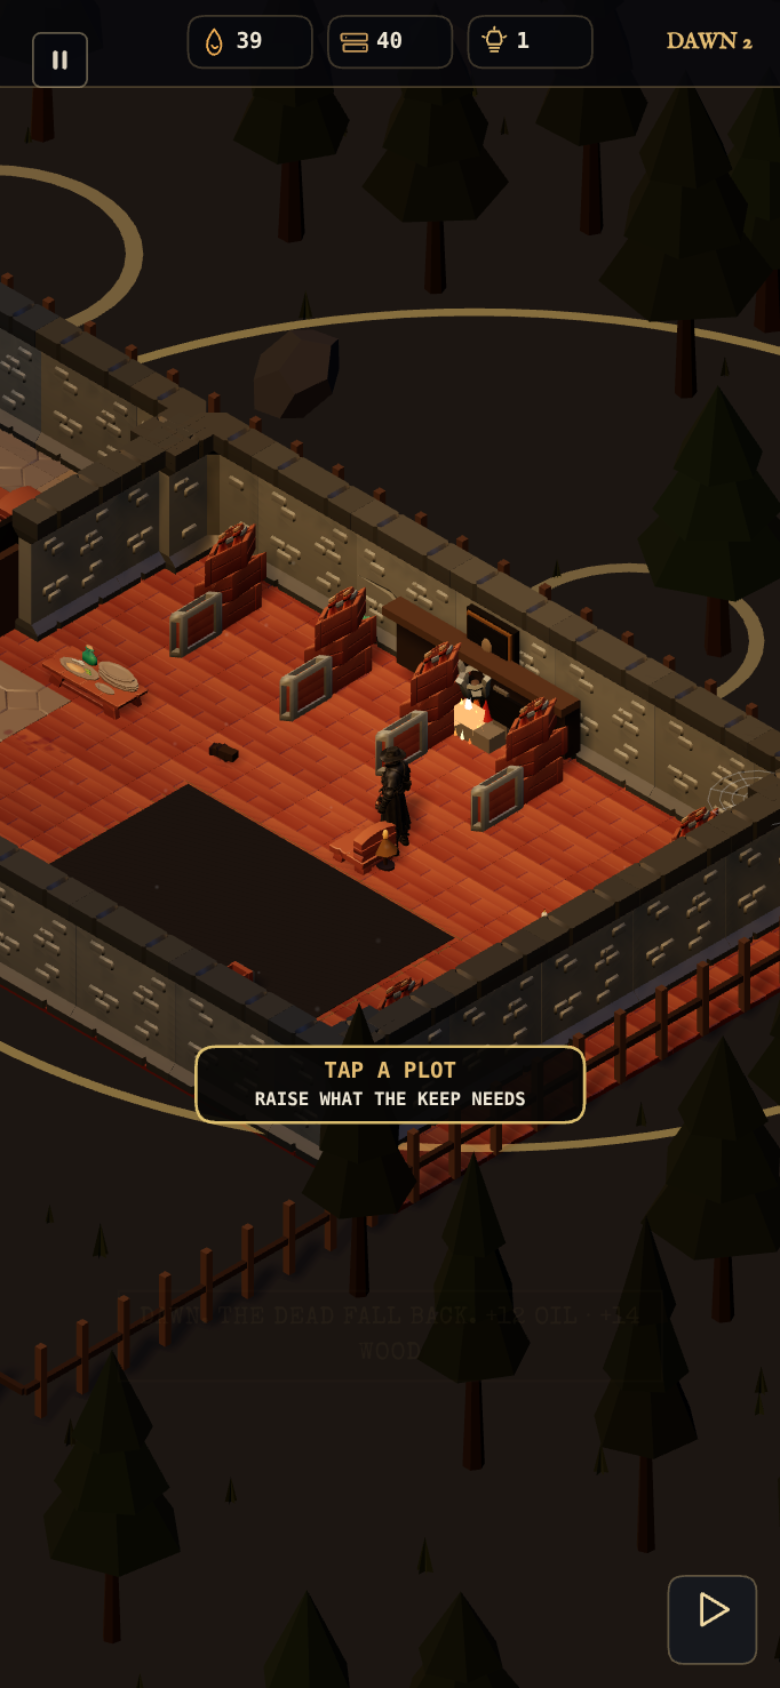
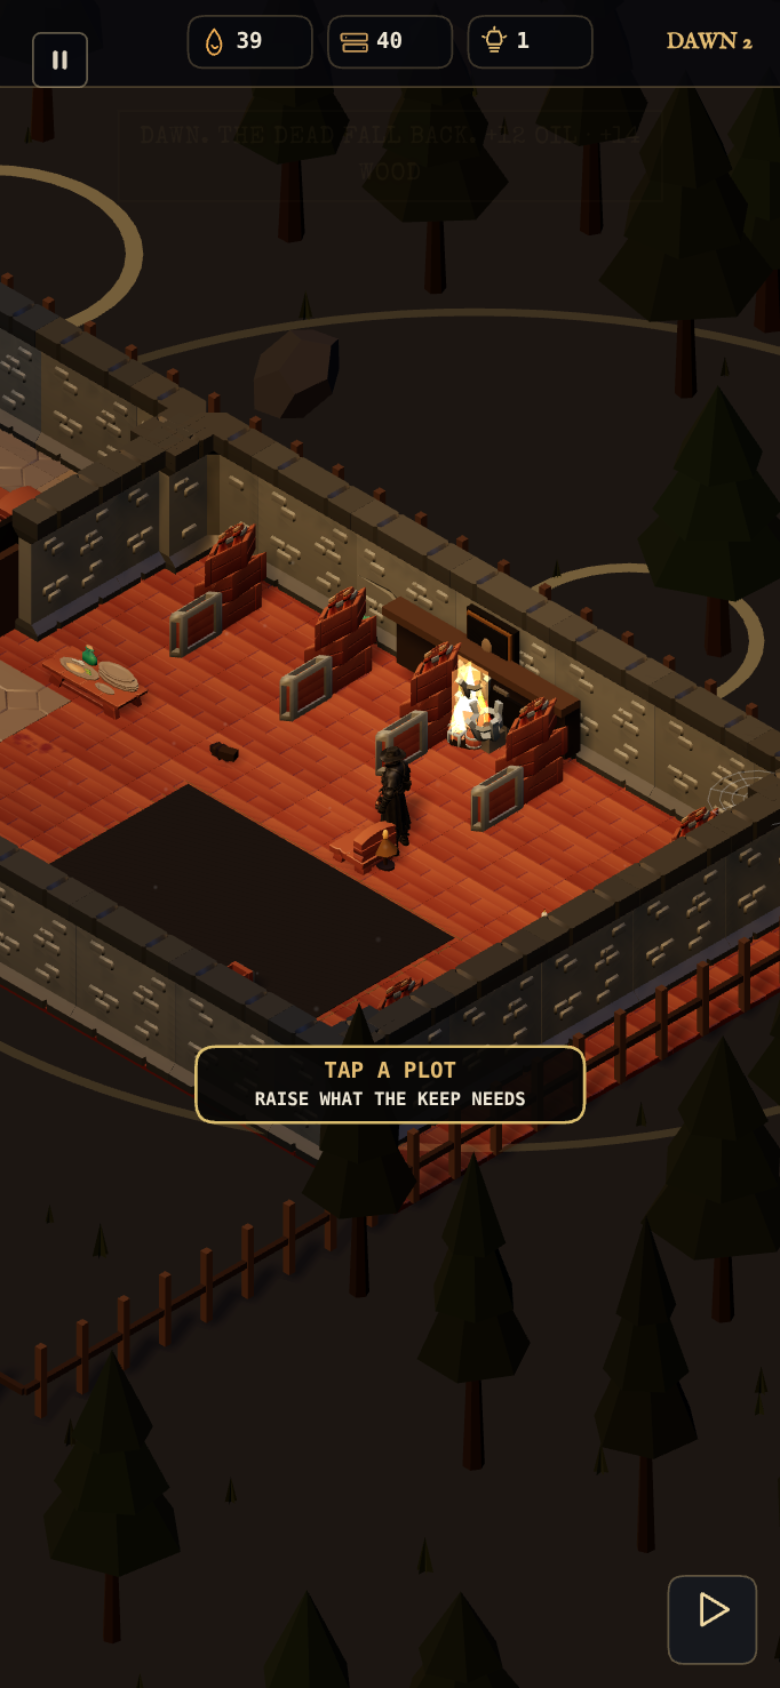
Make the hearth a real fire that goes out.
The keep fire is a log pit with torch/barrel kit pieces, not a gold ring.
Oil lights the flames; empty oil leaves embers and smoke. Dawn copy sits
under the dock, day camera looks at the yard, and wing jobs are rooms.

diff --git a/src/game/world3d.js b/src/game/world3d.js
@@ -6,7 +6,7 @@
  */
 import * as THREE from '../vendor/three/three.module.min.js';
 import { ISO_CAMERA, clamp, visualAngle } from '../core/util.js';
-import { EnvKit, PX_PER_METRE, VALEN_METRES, HUNTER_SCALE } from './envkit.js';
+import { EnvKit, PX_PER_METRE, VALEN_METRES, HUNTER_SCALE, PIECE_METRES } from './envkit.js';
 import { Valen3D } from './valen3d.js';
 import { Enemy3D, enemyWorldHeight } from './enemy3d.js';
 import { ROOM_MARKS } from './narrative.js';
@@ -506,13 +506,18 @@ class World3DRuntime {
 
     const fire = game.mansion.fireplaceLight;
     if (this.hearthLight) {
-      const lit = !!(survival && fire && (fire.curI == null ? fire.i : fire.curI) > 0.02);
+      const oilOn = !!(survival && fire && game.survival && game.survival.oil > 0 && game.survival.phase !== 'failed');
+      const dying = !!(survival && fire && game.survival && game.survival.oil <= 0 && game.survival.phase !== 'failed'
+        && (fire.curI == null ? fire.i : fire.curI) > 0.02);
+      const lit = oilOn || dying;
       this.hearthLight.visible = lit;
-      if (lit) {
-        this.hearthLight.position.set(fire.x, 78, fire.y);
-        this.hearthLight.distance = day ? 560 : 720;
-        this.hearthLight.intensity = (fire.curI == null ? fire.i : fire.curI) * (day ? 4.4 : 7.6);
-        this.hearthLight.color.set(0xff9a52);
+      if (lit && fire) {
+        this.hearthLight.position.set(fire.x, oilOn ? 86 : 28, fire.y);
+        this.hearthLight.distance = oilOn ? (day ? 560 : 720) : 180;
+        this.hearthLight.intensity = oilOn
+          ? (fire.curI == null ? fire.i : fire.curI) * (day ? 4.8 : 8.2)
+          : 0.55;
+        this.hearthLight.color.set(oilOn ? 0xff9a52 : 0x7a3a18);
       } else {
         this.hearthLight.intensity = 0;
       }
@@ -1007,26 +1012,103 @@ class World3DRuntime {
   _makeSurvivalHearthFire() {
     const group = new THREE.Group();
     group.name = 'survival-hearth-fire-3d';
-    const addFlame = (x, h, color, opacity) => {
-      const flame = new THREE.Mesh(
-        new THREE.ConeGeometry(10, h, 6, 1, true),
-        new THREE.MeshBasicMaterial({
-          color, transparent: true, opacity,
-          blending: THREE.AdditiveBlending, depthWrite: false, side: THREE.DoubleSide, toneMapped: false,
-        }),
-      );
-      flame.position.set(x, h * 0.5, 8);
-      group.add(flame);
+    group.userData.hearthV2 = true;
+    const wood = new THREE.MeshStandardMaterial({ color: 0x3a2416, roughness: 1, flatShading: true });
+    const char = new THREE.MeshStandardMaterial({ color: 0x1a1410, roughness: 1, flatShading: true });
+    const emberMat = new THREE.MeshBasicMaterial({ color: 0xff6a22, transparent: true, opacity: 0.9, toneMapped: false });
+    const pit = new THREE.Group();
+    pit.name = 'hearth-logs-3d';
+    const ash = new THREE.Mesh(new THREE.CylinderGeometry(22, 26, 6, 8), char);
+    ash.position.set(0, 4, 6);
+    pit.add(ash);
+    for (let i = 0; i < 5; i++) {
+      const log = new THREE.Mesh(new THREE.CylinderGeometry(5.5, 6.5, 40, 6), wood);
+      log.position.set((i - 2) * 7, 8, 4 + (i % 2) * 6);
+      log.rotation.z = Math.PI / 2;
+      log.rotation.y = (i - 2) * 0.28;
+      log.castShadow = true;
+      pit.add(log);
+    }
+    group.add(pit);
+
+    const embers = new THREE.Group();
+    embers.name = 'hearth-embers-3d';
+    for (const [x, z, s] of [[-8, 4, 7], [6, 8, 6], [0, 2, 9], [10, 0, 5], [-6, 10, 5]]) {
+      const coal = new THREE.Mesh(new THREE.SphereGeometry(s * 0.45, 6, 5), emberMat.clone());
+      coal.position.set(x, 7, z);
+      embers.add(coal);
+    }
+    group.add(embers);
+
+    const flameMat = (color, opacity) => new THREE.MeshBasicMaterial({
+      color, transparent: true, opacity,
+      blending: THREE.AdditiveBlending, depthWrite: false, side: THREE.DoubleSide, toneMapped: false,
+    });
+    const flames = new THREE.Group();
+    flames.name = 'hearth-flames-3d';
+    const addCone = (x, h, color, opacity, z = 6) => {
+      const flame = new THREE.Mesh(new THREE.ConeGeometry(14, h, 7, 1, true), flameMat(color, opacity));
+      flame.position.set(x, 10 + h * 0.45, z);
+      flames.add(flame);
       return flame;
     };
-    group.userData = {
-      inner: addFlame(0, 54, 0xfff0c0, 0.9),
-      mid: addFlame(-9, 40, 0xff9a3a, 0.72),
-      outer: addFlame(10, 36, 0xff6a22, 0.6),
-    };
-    group.visible = false;
+    addCone(0, 92, 0xfff4c4, 0.95);
+    addCone(-12, 70, 0xff9a32, 0.8);
+    addCone(14, 64, 0xff6a18, 0.72);
+    addCone(-4, 50, 0xffc078, 0.7, 14);
+    addCone(8, 46, 0xff8028, 0.65, 0);
+    const sheet = new THREE.PlaneGeometry(48, 96);
+    for (const yaw of [0, Math.PI / 2]) {
+      const plane = new THREE.Mesh(sheet, flameMat(0xffb45c, 0.55));
+      plane.position.set(0, 52, 6);
+      plane.rotation.y = yaw;
+      flames.add(plane);
+    }
+    group.add(flames);
+
+    const smoke = new THREE.Group();
+    smoke.name = 'hearth-smoke-3d';
+    const smokeMat = new THREE.MeshBasicMaterial({
+      color: 0x4a4640, transparent: true, opacity: 0.28, depthWrite: false, toneMapped: false,
+    });
+    for (const [x, h] of [[-6, 70], [8, 86], [0, 100]]) {
+      const puff = new THREE.Mesh(new THREE.ConeGeometry(16, h, 6, 1, true), smokeMat.clone());
+      puff.position.set(x, 18 + h * 0.35, 4);
+      smoke.add(puff);
+    }
+    smoke.visible = false;
+    group.add(smoke);
+
+    group.userData = { hearthV2: true, pit, embers, flames, smoke, torches: [] };
     this.root.add(group);
     return group;
+  }
+
+  _attachHearthKit(group) {
+    if (!group || group.userData.kit || !EnvKit.ready) return;
+    const heightFor = (name, metres) => {
+      const src = EnvKit.pieces && EnvKit.pieces[name];
+      if (!src) return 1;
+      const target = (metres || 1) * PX_PER_METRE;
+      return target / Math.max(0.001, src.size.y);
+    };
+    const addPiece = (name, x, y, z, metres, yaw = 0) => {
+      const mesh = EnvKit.piece(name);
+      if (!mesh) return null;
+      const s = heightFor(name, metres);
+      mesh.scale.setScalar(s);
+      mesh.position.set(x, y, z);
+      mesh.rotation.y = yaw;
+      group.add(mesh);
+      return mesh;
+    };
+    const left = addPiece('torch', -32, 0, -10, PIECE_METRES.torch || 1.5, 0.2);
+    const right = addPiece('torch', 32, 0, -10, PIECE_METRES.torch || 1.5, -0.2);
+    addPiece('barrel', -18, 0, 18, 0.42, 0.4);
+    addPiece('barrel', 16, 0, 16, 0.38, -0.6);
+    addPiece('crate', 0, 0, 22, 0.28, 0.15);
+    group.userData.torches = [left, right].filter(Boolean);
+    group.userData.kit = true;
   }
 
   _makeSurvivalSlotRing() {
@@ -1134,11 +1216,11 @@ class World3DRuntime {
     const fire = game.mansion.fireplaceLight;
     if (!this.survivalRadiusRing) this.survivalRadiusRing = this._makeSurvivalRadiusRing();
     const radius = mode.getFireRadius();
-    this.survivalRadiusRing.visible = radius > 0;
+    this.survivalRadiusRing.visible = radius > 0 && mode.oil > 0 && mode.phase === 'night';
     if (fire) {
       this.survivalRadiusRing.position.set(fire.x, 3.4, fire.y);
       this.survivalRadiusRing.scale.set(radius, radius, radius);
-      this.survivalRadiusRing.material.opacity = 0.5;
+      this.survivalRadiusRing.material.opacity = 0.16;
     }
 
     if (!this.survivalTargetRing) this.survivalTargetRing = this._makeSurvivalTargetRing();
@@ -1152,18 +1234,41 @@ class World3DRuntime {
       this.survivalTargetRing.material.opacity = 0.72 + 0.22 * Math.abs(Math.sin((game.now || 0) * 6));
     }
 
+    if (this.survivalHearthFire && !this.survivalHearthFire.userData.hearthV2) {
+      this.root.remove(this.survivalHearthFire);
+      this.survivalHearthFire = null;
+    }
     if (!this.survivalHearthFire) this.survivalHearthFire = this._makeSurvivalHearthFire();
-    const hearthOn = !!(fire && radius > 0 && mode.phase !== 'failed');
-    this.survivalHearthFire.visible = hearthOn;
-    if (hearthOn) {
+    this._attachHearthKit(this.survivalHearthFire);
+    const hearthState = mode.phase === 'failed' || radius <= 0 ? 'out'
+      : mode.oil <= 0 ? 'dying' : 'lit';
+    this.survivalHearthFire.visible = !!fire;
+    if (fire) {
       const now = game.now || mode.elapsed || 0;
       this.survivalHearthFire.position.set(fire.x, 0, fire.y);
-      const lift = 0.94 + 0.06 * Math.sin(now * 2.1);
-      this.survivalHearthFire.scale.set(1, lift, 1);
-      const heat = mode.oil > 0 ? 1 : 0.62;
-      this.survivalHearthFire.userData.inner.material.opacity = 0.88 * heat;
-      this.survivalHearthFire.userData.mid.material.opacity = 0.7 * heat;
-      this.survivalHearthFire.userData.outer.material.opacity = 0.55 * heat;
+      const { flames, embers, smoke, torches } = this.survivalHearthFire.userData;
+      const flicker = 0.92 + 0.08 * Math.sin(now * 9.4);
+      if (flames) {
+        flames.visible = hearthState === 'lit';
+        flames.scale.set(1, hearthState === 'lit' ? flicker : 0.2, 1);
+      }
+      if (embers) {
+        embers.visible = hearthState !== 'out';
+        const glow = hearthState === 'lit' ? 0.95 : 0.32;
+        for (const coal of embers.children) {
+          if (coal.material) coal.material.opacity = glow * (0.7 + 0.3 * Math.abs(Math.sin(now * 6 + coal.position.x)));
+        }
+      }
+      if (smoke) {
+        smoke.visible = hearthState !== 'lit';
+        smoke.position.y = 6 + Math.sin(now * 0.8) * 3;
+        for (const puff of smoke.children) {
+          if (puff.material) puff.material.opacity = hearthState === 'out' ? 0.22 : 0.34;
+        }
+      }
+      for (const torch of torches || []) {
+        if (torch) torch.visible = hearthState !== 'out';
+      }
     }
 
     if (!this.survivalFlare) this.survivalFlare = this._makeSurvivalFlare();
@@ -1229,7 +1334,7 @@ class World3DRuntime {
     const activeBuildings = new Set();
     for (const [roomId, type] of Object.entries(mode.buildings)) {
       const room = mode.plotById(roomId);
-      if (!room) continue;
+      if (!room || room.kind !== 'yard') continue;
       activeBuildings.add(roomId);
       let mesh = this.survivalBuildingMeshes.get(roomId);
       if (!mesh || mesh.userData.type !== type) {

diff --git a/src/game/game.js b/src/game/game.js
@@ -2683,8 +2683,10 @@ export class Game {
       const phone = w < 840 || h < 500;
       const stick = this.input && this.input.stick;
       const stickTop = stick ? ((stick.homeY || h - 120) - stick.r) : h - 80;
-      // One chip, above the thumbs. Never a stack across the middle of the room.
-      const y = phone ? Math.min(stickTop - 36, h - 176) : h * 0.72;
+      // Survival captions sit under the resource dock so dawn text is not
+      // lost in the palisade trees. Hunt still uses the thumb-safe band.
+      const y = this.mode === 'survival' ? 78
+        : phone ? Math.min(stickTop - 36, h - 176) : h * 0.72;
       const maxW = Math.min(framed ? view.w - 28 : w * 0.72, phone ? 280 : 560);
       const fontPx = phone ? 12 : 14;
       ctx.font = `500 ${fontPx}px "Special Elite", "Courier New", monospace`;

diff --git a/src/game/envkit.js b/src/game/envkit.js
@@ -1644,7 +1644,7 @@ class EnvKitRuntime {
     }
     if (state.flameMeshes) {
       const lit = game.mode === 'survival'
-        ? !!(game.survival && game.survival.phase !== 'failed' && game.survival.getFireRadius() > 0)
+        ? !!(game.survival && game.survival.oil > 0 && game.survival.phase !== 'failed' && game.survival.getFireRadius() > 0)
         : !(game.blackoutT > 0);
       for (const flame of state.flames) {
         const mesh = state.flameMeshes[flame.kind];

diff --git a/src/game/survival.js b/src/game/survival.js
@@ -1518,7 +1518,7 @@ export class SurvivalMode {
     const p = g.player;
     g.renderer.applyLookPan(g.input);
     const lookX = clamp(p.vx * 0.18, -56, 56);
-    const lookY = clamp(p.vy * 0.18, -56, 56);
+    const lookY = this.phase === 'day' ? 170 : clamp(p.vy * 0.18, -56, 56);
     g.renderer.followCamera(p.x, p.y, dt, lookX, lookY, g.mansion.camBounds);
   }
 

diff --git a/sw.js b/sw.js
@@ -21,7 +21,7 @@
  * — the old cache is dropped on activate.
  */
 
-const VERSION = 'duskhold-v10';
+const VERSION = 'duskhold-v11';
 const CACHE = VERSION;
 
 /* The shell: what has to be there for the first paint on a cold start.
